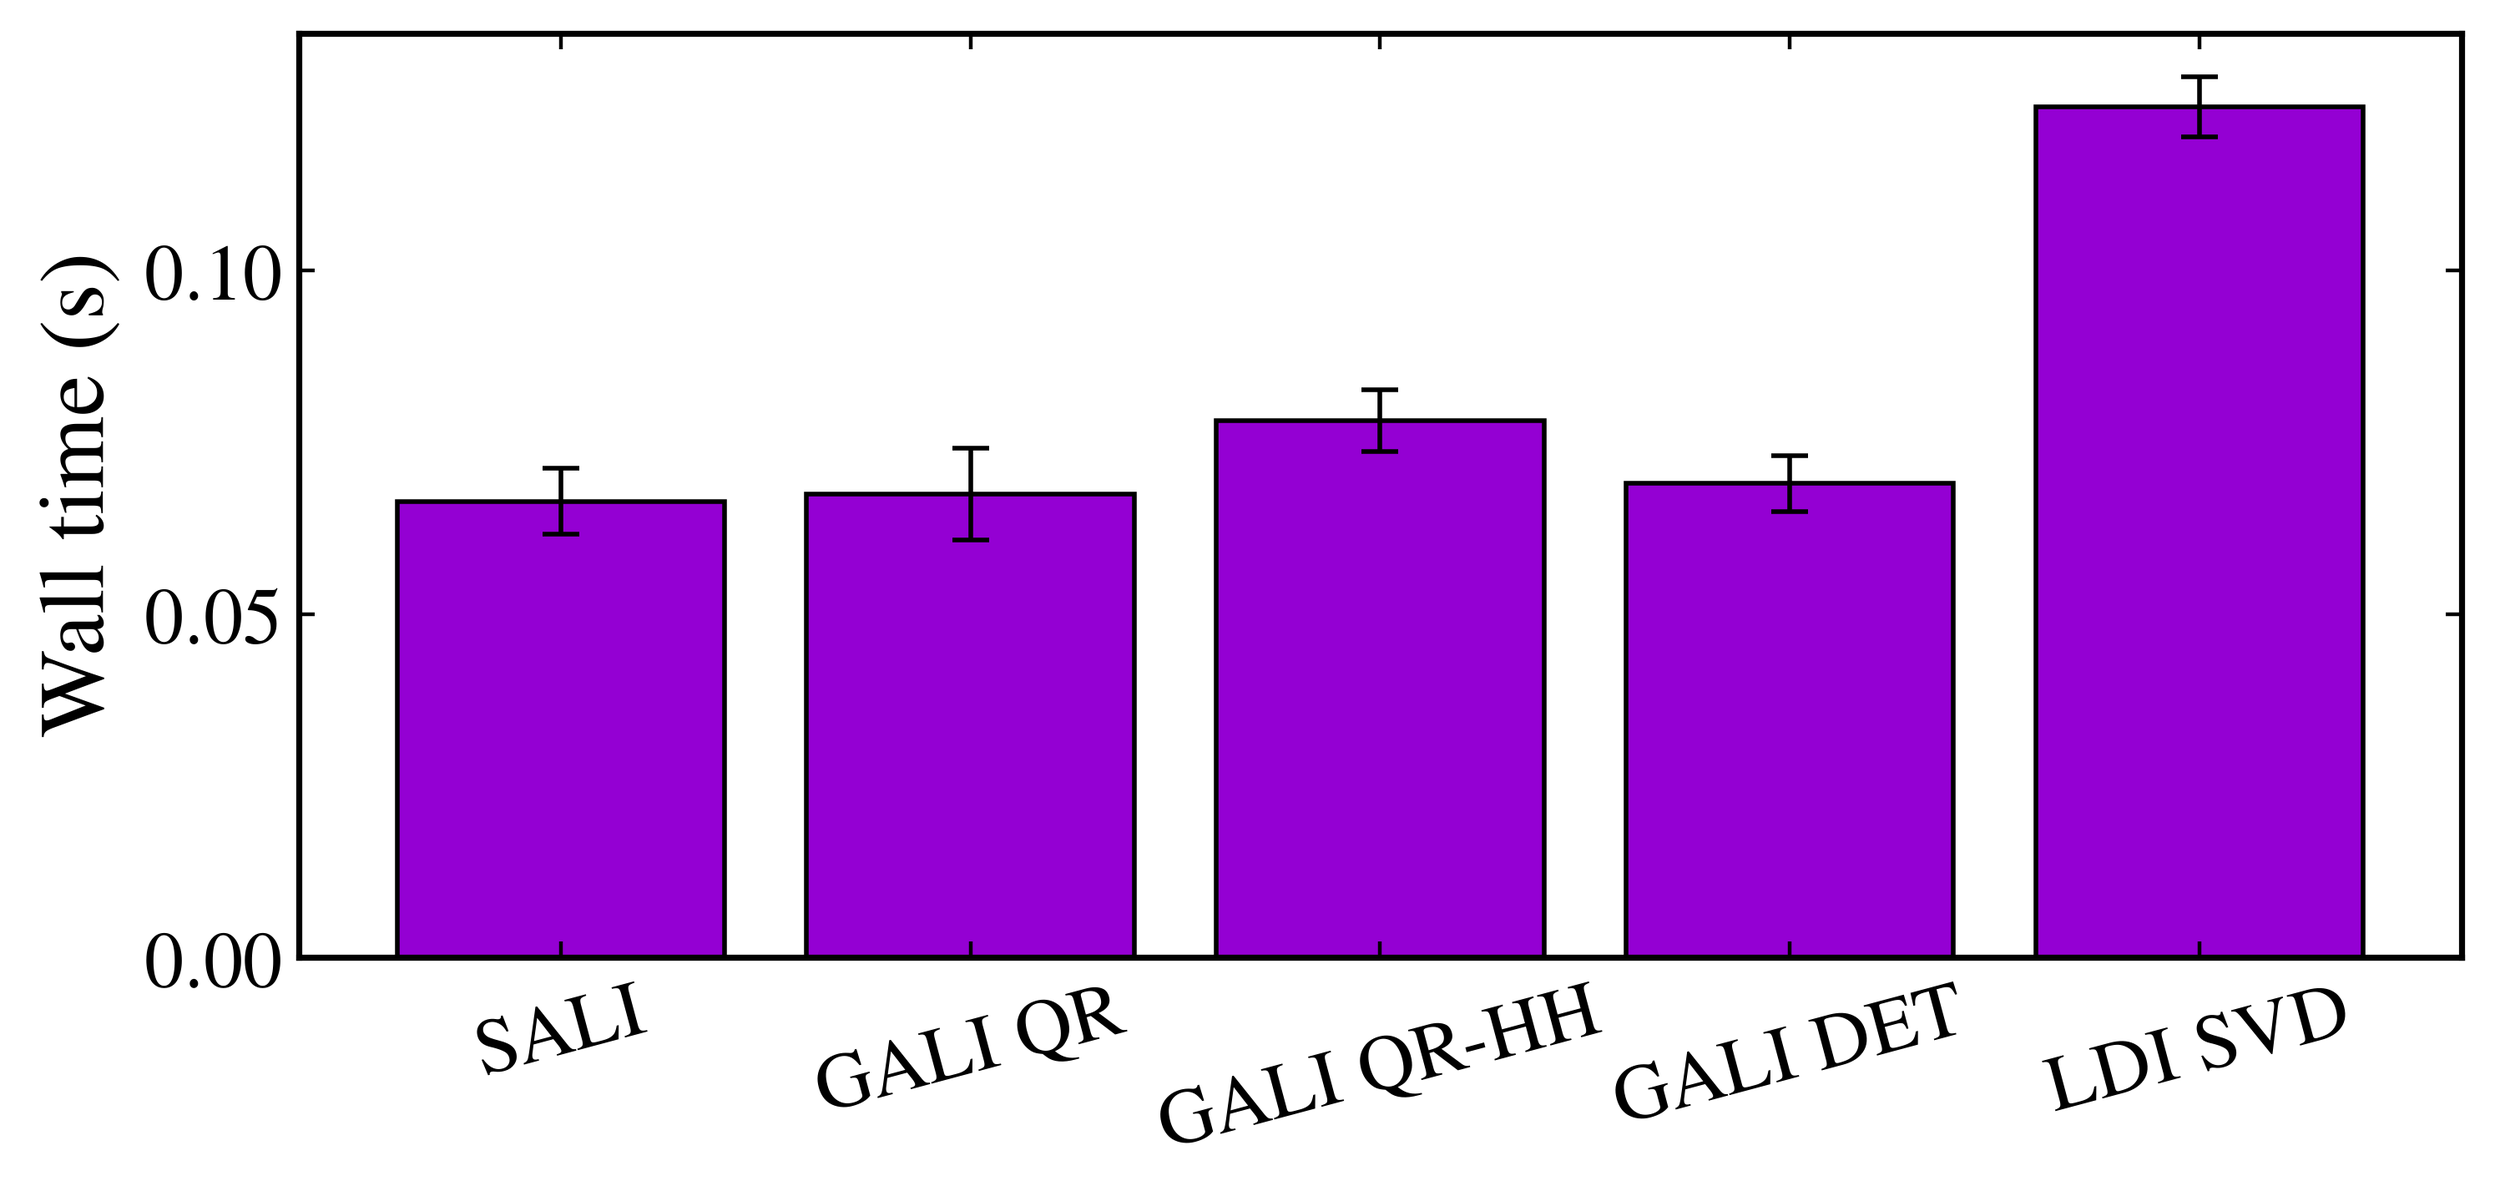
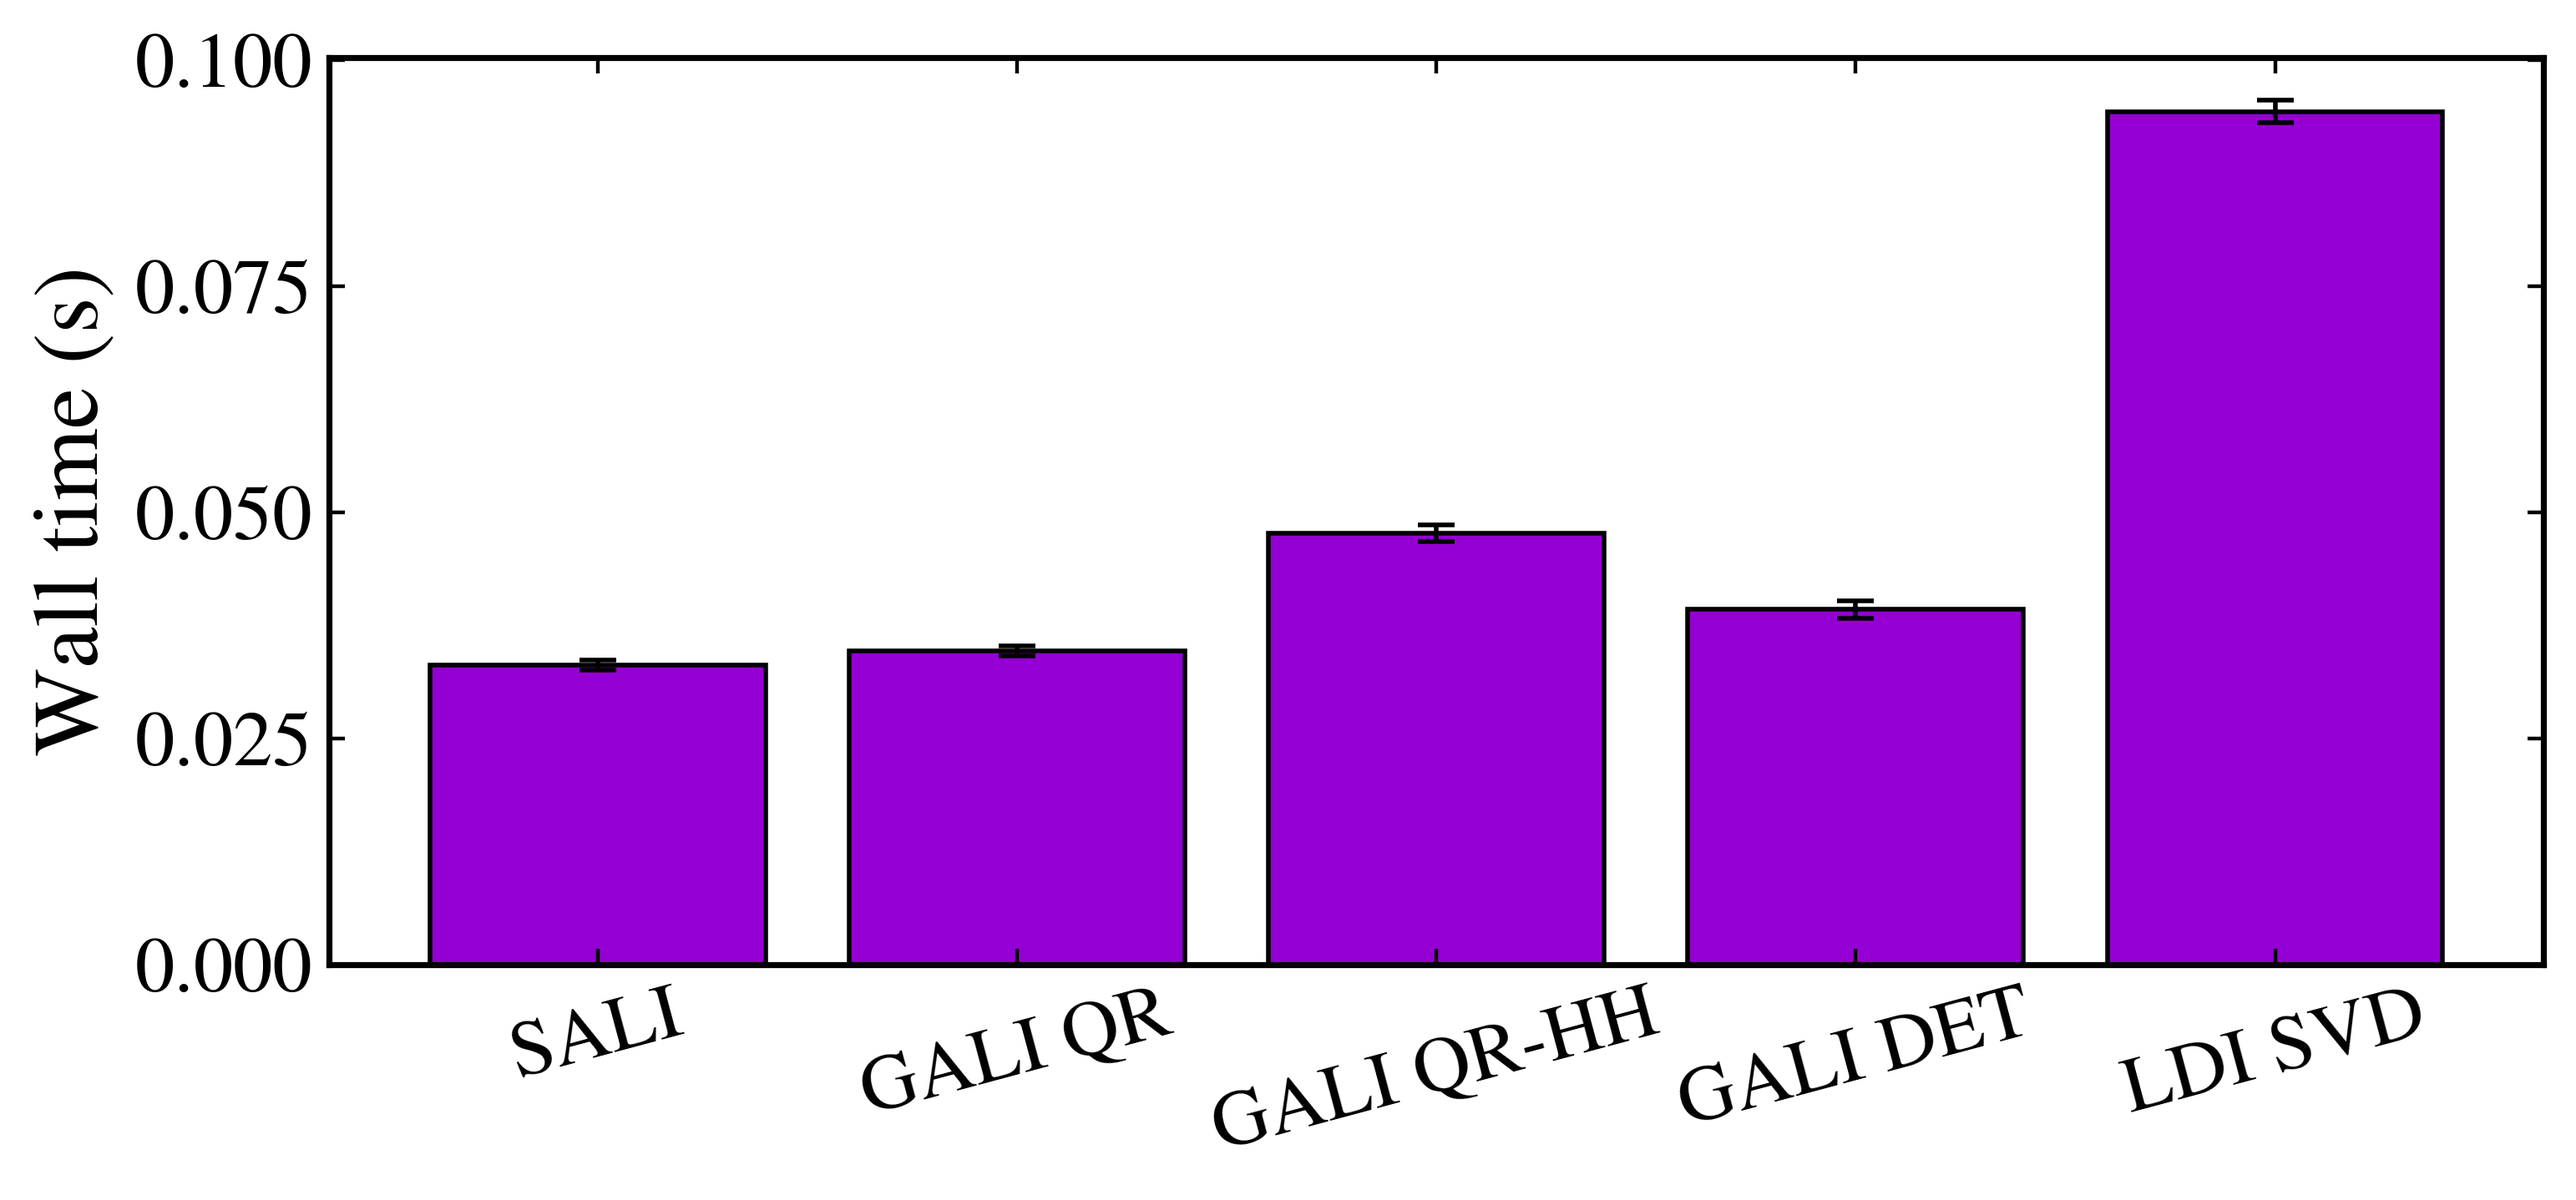
docs: update the changelog and the Hamiltonian run times

Changed region(s): [[0.0, 0.0, 0.9957, 0.9485], [0.9645, 0.4896, 0.9957, 0.5202], [0.9645, 0.2142, 0.9957, 0.2448]]

diff --git a/CHANGELOG.md b/CHANGELOG.md
@@ -41,6 +41,7 @@ and this project adheres to [Semantic Versioning](https://semver.org/spec/v2.0.0
 - `DiscreteDynamicalSystem.recurrence_times` returns the recurrence times as an array of integers (`int64`) instead of floats.
 - Several methods of `DiscreteDynamicalSystem` are faster. `average_in_time`, `cumulative_average`, `root_mean_squared`, and `mean_squared_displacement` run each initial condition in its own thread for many iterations at a time, instead of synchronizing the threads after every iteration, which makes them over ten times faster on large ensembles. `lyapunov` with `method="QR"`, `SALI`, and `GALI` with `method="QR"` no longer allocate memory at each iteration and are two to four times faster. `bifurcation_diagram`, the loop over windows of `finite_time_lyapunov`, and the transients of `dig` and `finite_time_lyapunov` now run in compiled code. Results on two-dimensional maps are unchanged to the last bit. On maps of higher dimension, `lyapunov`, `finite_time_lyapunov`, `SALI`, and `GALI` may differ from those of earlier versions at the level of round-off, since the products of the Jacobian with the deviation vectors no longer go through BLAS.
 - Several methods of `ContinuousDynamicalSystem` are faster. The `rk45` integrator no longer creates temporary arrays at each stage, which makes `trajectory` and the other methods that use it up to 2.5 times faster, and `trajectory` stores the states in a growing array instead of a list. An ensemble of initial conditions in `trajectory` now runs in threads instead of separate processes, so the first call no longer compiles the integrator again in each process. `lyapunov`, `SALI`, and `GALI` with `method="QR"` are about two times faster with `rk4` and up to 2.7 times faster with `rk45`. Trajectories, Poincaré sections, stroboscopic maps, and maxima maps are unchanged to the last bit. The variational equations now compute the product of the Jacobian with the deviation vectors without BLAS, so `lyapunov`, `CLV`, `SALI`, `LDI`, and `GALI` may differ from those of earlier versions at the level of round-off. With `rk45`, the deviation vectors enter the step-size control, so on chaotic orbits these round-off differences can change which steps are accepted, and the results then differ by more than round-off, as with any change of tolerance.
+- Several methods of `HamiltonianSystem` are faster. `poincare_section` with an ensemble of initial conditions now runs the sections in threads instead of separate processes, which compiled the integrator again in every process on every call, so it is tens of times faster; `max_workers` now sets the number of threads. The `svy4` and `vv2` integrators no longer create temporary arrays, which makes `trajectory`, `poincare_section`, and `step` about 1.5 times faster, and the `imp` integrator reuses its arrays across Newton iterations, about 1.2 times faster. `lyapunov`, `SALI`, and `GALI` are about two times faster with `svy4` and `vv2`. Trajectories, Poincaré sections, and the Lyapunov exponents of the built-in Hénon-Heiles system are unchanged to the last bit. The products of the Hessians with the deviation vectors no longer go through BLAS, and SALI and GALI compute their norms without BLAS, so `SALI`, `GALI`, `LDI`, and, for systems with more than two degrees of freedom, `lyapunov` and `CLV` may differ from those of earlier versions at the level of round-off.
 
 ### Deprecated
 
@@ -78,6 +79,7 @@ and this project adheres to [Semantic Versioning](https://semver.org/spec/v2.0.0
 - `DiscreteDynamicalSystem` accepted `system_dimension=0` for a custom map, and the system was then built with no state variables. `system_dimension` must now be positive, and `0` raises a `ValueError`.
 - `DiscreteDynamicalSystem.bifurcation_diagram` failed for systems with more than one parameter when `parameters` was passed while parameters were also stored, because the swept parameter was not inserted into them. It also failed when `parameters` was omitted and none were stored. Explicit `parameters` are now always the parameters other than the swept one, and omitting them on a system with several parameters and none stored raises a `ValueError` that names what is missing.
 - `DiscreteDynamicalSystem.average_in_time`, `cumulative_average`, `root_mean_squared`, and `mean_squared_displacement` averaged over the ensemble in parallel, so their results changed at the level of round-off with the number of threads. The average is now computed in a fixed order and does not depend on the number of threads. The results equal those that earlier versions gave on a single thread.
+- `HamiltonianSystem.poincare_section` with an ensemble of initial conditions failed with a `RuntimeError` in scripts not guarded by `if __name__ == "__main__":` on platforms that start new processes by spawning them, such as macOS and Windows. It now runs in threads and needs no guard.
 
 [Unreleased]: https://github.com/mrolims/pynamicalsys/compare/v1.7.0...HEAD
 
